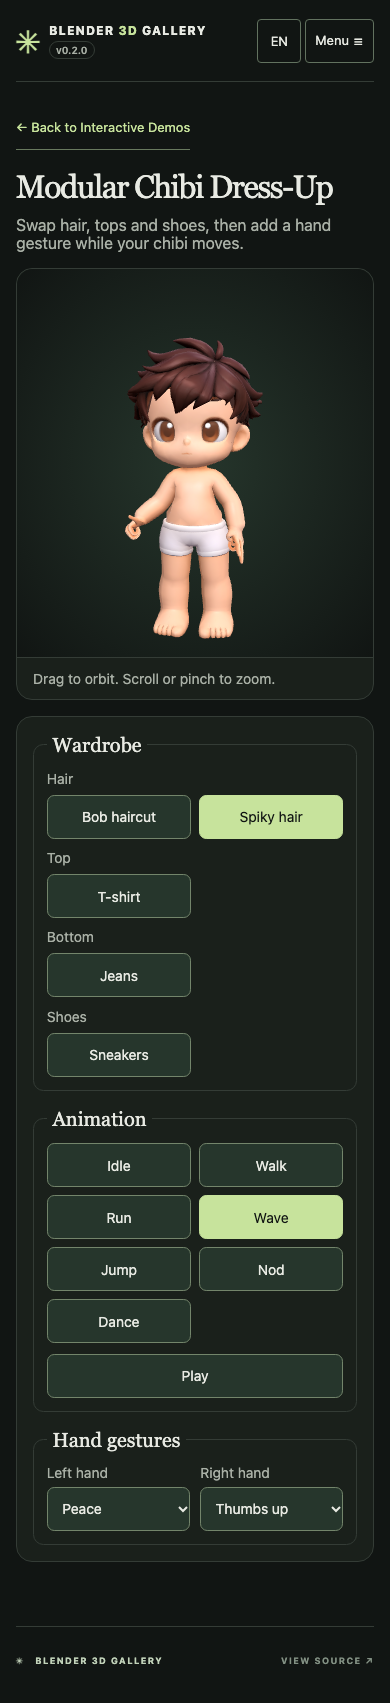
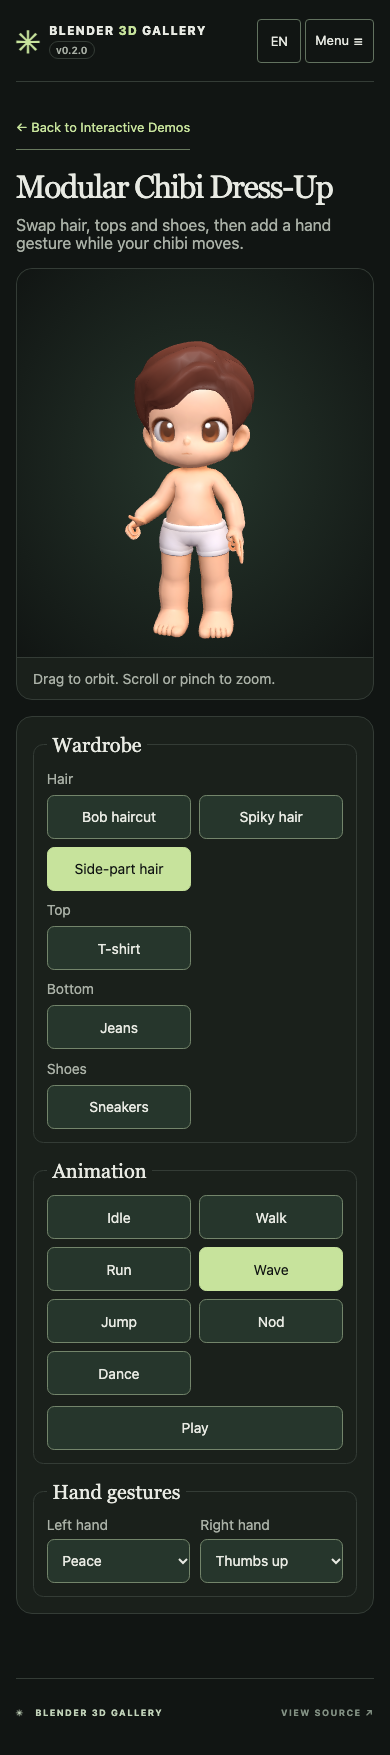
Dress-up demo: add side-part hair

diff --git a/docs/chibi-dressup-progress.md b/docs/chibi-dressup-progress.md
@@ -63,3 +63,4 @@ Report in the session every 20 minutes; push each verified piece; record every d
   - dress: 0/0 but minimum clearance 0.1 mm (limit 0.5 mm), PASS WITH NOTES; not in the demo yet because the demo has no slot-exclusion rule (dress would clip the jeans).
   - cargo pants: FAIL (run 2 vertices, 38 pairs; reviewer saw black slits). Bomber jacket: FAIL (walk 7 vertices, up to 12.7 mm). Both stay out; three rounds are used up.
 - Budget note: the full set (body 9,512 + hair 2,972 + top 4,699 + bottom 4,704 + sneakers 3,492 = 25.4k triangles) exceeds the 20k whole-character target; fine for the single-character demo, too heavy for a crowd without LODs or decimation.
+- Hair round 3 (corrected clips, own checkers, independent render review): side-part 0/0 in all clips, PASS WITH NOTES (faint dark hairline, slightly faceted nape) → in the demo. Twin-tails 0/0 but review FAIL (near-black slits along the temples, faceted nape) after three rounds → not shipped; reason recorded, needs a different method (for example a fresh Studio generation) rather than a fourth redo.
